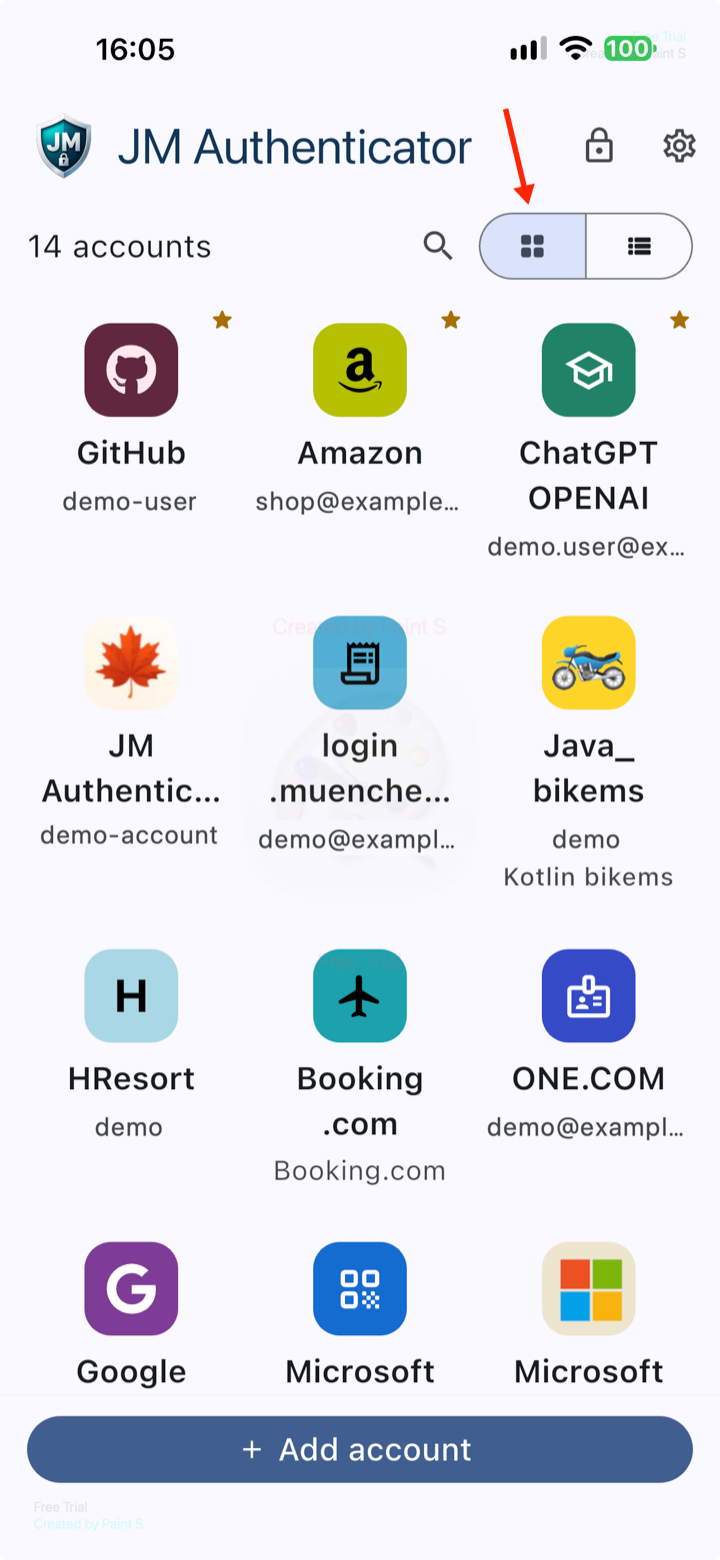
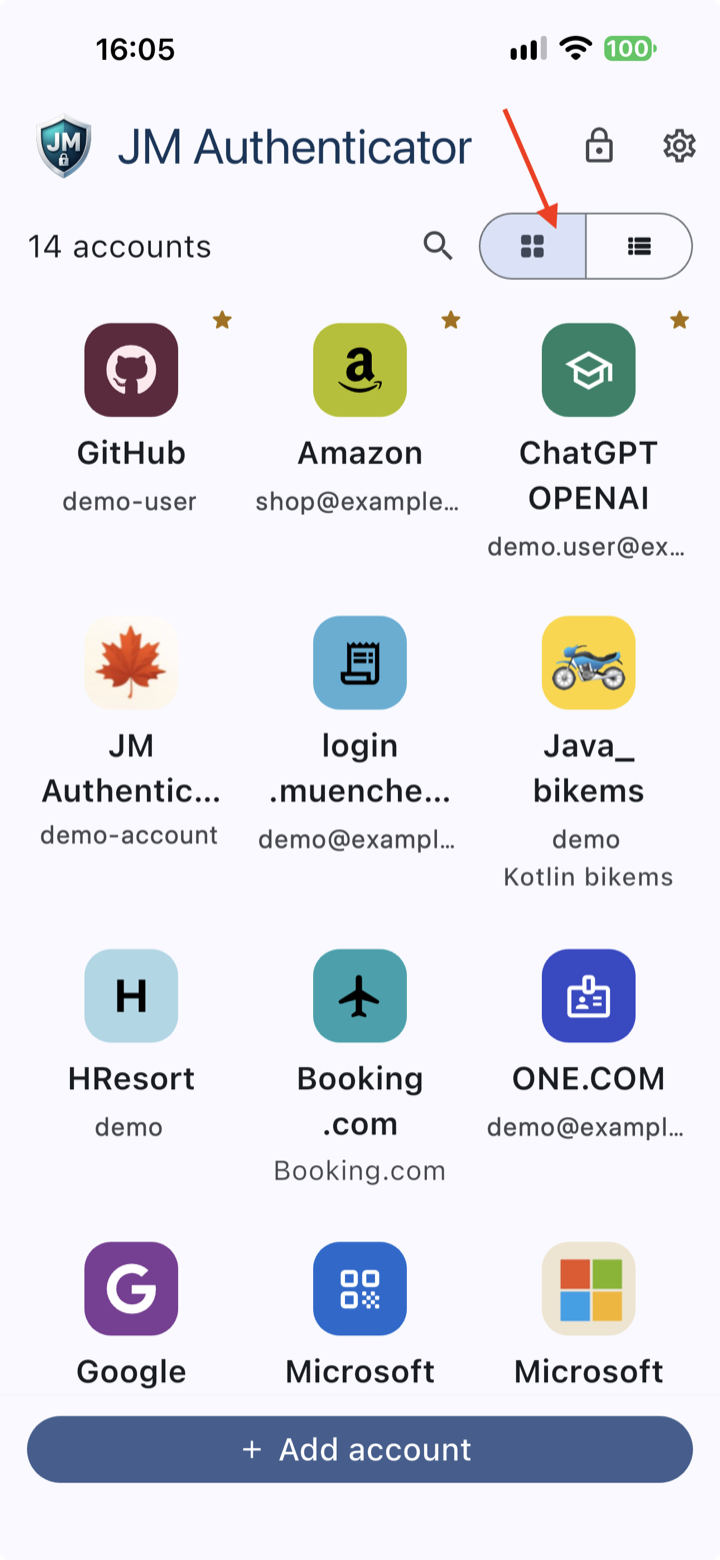
feat(guide): complete Security and Verification Codes chapters
- Complete Chapter 02: Security & app lock.
- Complete Chapter 03: Use verification codes.
- Add sanitized iPhone screenshots and instructional arrows.
- Implement one-chapter-at-a-time navigation.
- Add icons to all seven chapter navigation entries.
- Preserve direct links, section anchors and browser navigation.
- Introduce borderless CONTENT sections.
- Improve responsive layout and accessibility.
- Preserve approved Chapter 01 content.
- Rebuild complete website distribution and sync deploy mirrors.
- Keep Chapters 04–07 in draft status.

diff --git a/deploy/jm-authenticator/README.md b/deploy/jm-authenticator/README.md
@@ -94,7 +94,7 @@ Each placeholder is a `<div class="shot-placeholder" data-screenshot="…">` ins
 | `images/advanced-totp-settings.png`, `images/confirm-enrollment.png` | **In place (chapter 01):** Advanced TOTP settings expanded and the Confirm enrollment dialog — genuine iPhone screenshots with the demo account; the secret key is masked by the app |
 | `images/account-ready.png` | **In place (chapter 01):** Home screen with the new Demo Mail account — genuine iPhone screenshot; the other accounts' identifiers are replaced by demo text, the Demo Mail card is unchanged |
 | `images/open-settings.png`, `images/settings.png`, `images/security-app-lock.png` | **In place (chapter 02):** Home screen gear (annotated crop), Settings, and the complete Security & app lock screen — genuine iPhone screenshots; the last joined from two captures at a matched overlap |
-| `images/codes-list.png`, `codes-revealed.png`, `codes-copied.png`, `codes-search.png`, `codes-grid.png` | **In place (chapter 03):** genuine iPhone screenshots with account identifiers replaced by demo text (`demo-user`, `shop@example.com`, `demo.user@example.com`, `demo@example.com`, `demo`, `demo-account`) and the visible codes replaced by example digits. `codes-copied.png` and `codes-grid.png` still show faint “Free Trial / Created by Paint S” watermarks from the annotation app and should be re-exported before publication |
+| `images/codes-list.png`, `codes-revealed.png`, `codes-copied.png`, `codes-search.png`, `codes-grid.png` | **In place (chapter 03):** genuine iPhone screenshots with account identifiers replaced by demo text (`demo-user`, `shop@example.com`, `demo.user@example.com`, `demo@example.com`, `demo`, `demo-account`) and the visible codes replaced by example digits. `codes-search.png` and `codes-grid.png` were replaced with watermark-free captures. **`codes-copied.png` still shows faint “Free Trial / Created by Paint S” watermarks from the annotation app and is not publication-ready** until a clean capture replaces it |
 | `05-backup-type.png` | Encrypted backup: Choose your backup type |
 | `06-save-external-backup.png` | Save your external backup guidance |
 | `07-encrypted-backups.png` | Encrypted backups screen with history |
